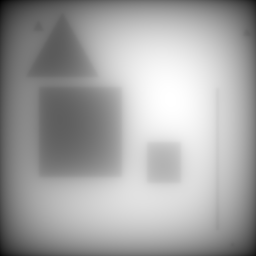
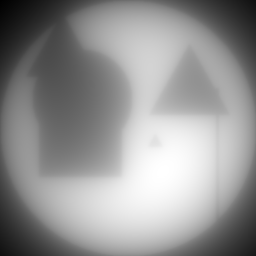
Fit phantom within unit disk

diff --git a/tomo_lib.py b/tomo_lib.py
@@ -5,6 +5,7 @@ import numpy as np
 import scipy.io
 import scipy.misc
 import astra
+from scipy import ndimage
 
 def get_sinogram(phantom, rays, angles):
     proj_geom =astra.create_proj_geom('parallel', 1.0, len(rays), angles)
@@ -53,5 +54,10 @@ def savebackprojection(filename, data, size):
     reshaped = data.reshape((size,size))
     scipy.misc.toimage(reshaped).save(filename)
 
+
 def get_phantom(size):
-    return random_shapes((size, size), min_shapes=5, max_shapes=10, multichannel=False, random_seed=0)[0]/255
+    full_image = random_shapes((size, size), min_shapes=5, max_shapes=10, multichannel=False, random_seed=0, allow_overlap=True)[0]/255
+    #Fit within unit disk
+    r = size/2;
+    y,x = np.ogrid[-r: r, -r: r]
+    return np.where(x**2+y**2 <= r**2, full_image,0.0);
